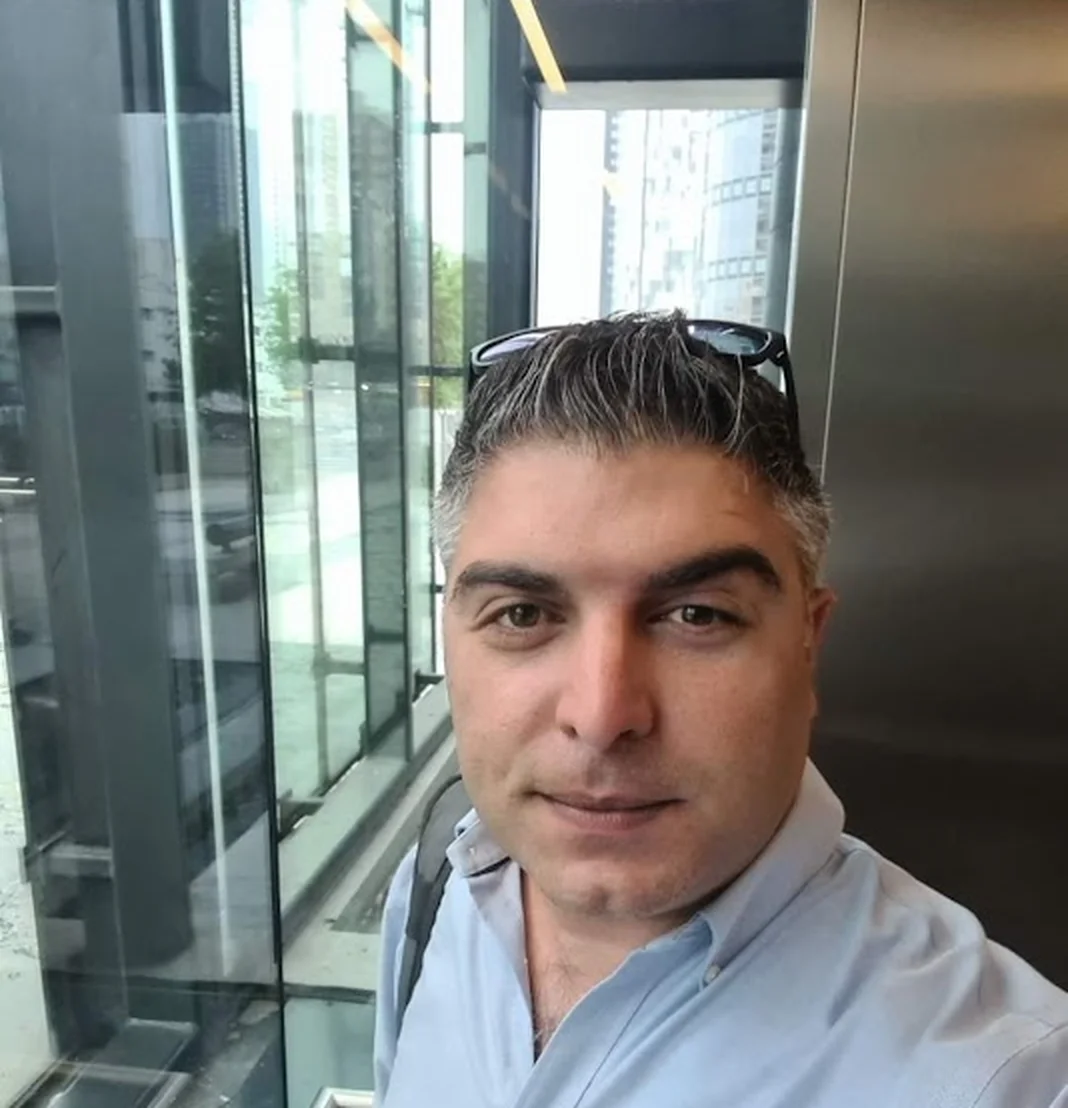
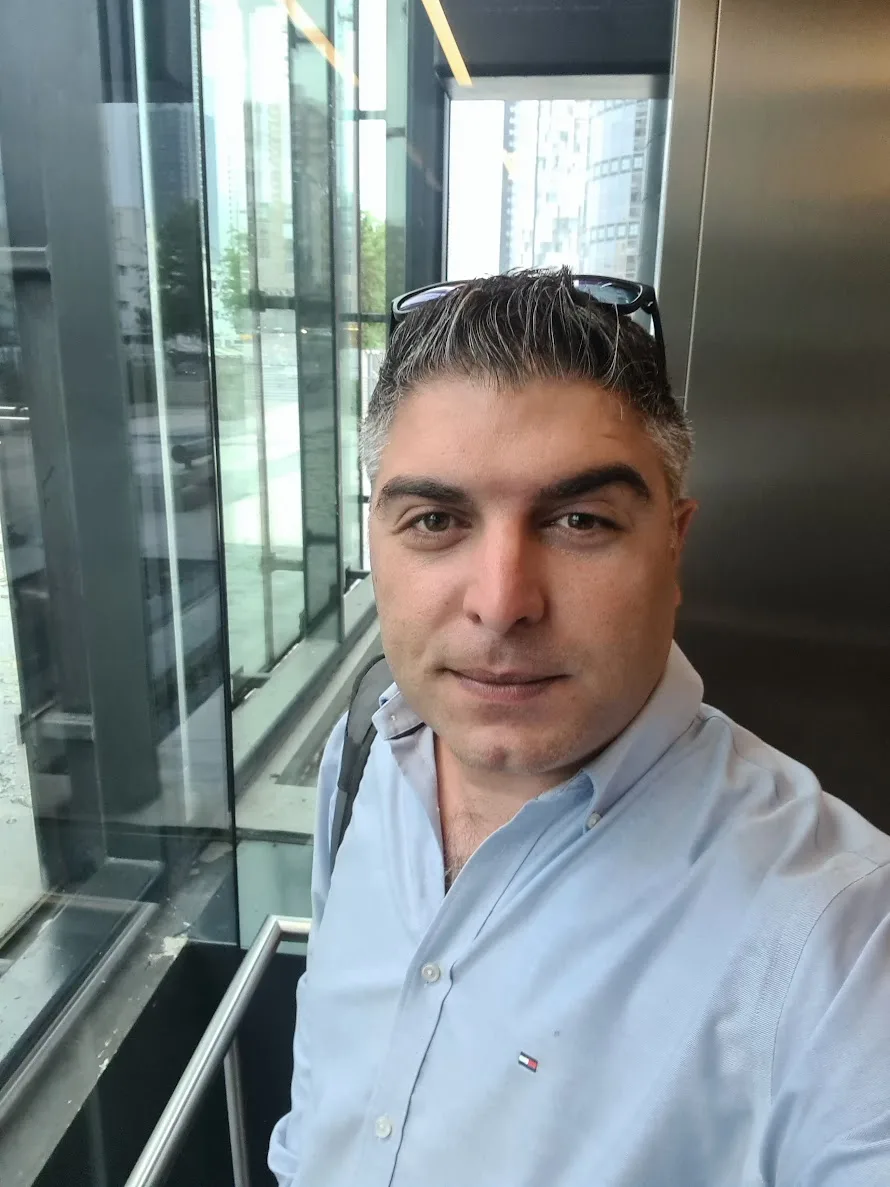
סדנאות: תמונות מקור ממנורה מבטחים + תמונת הכניסה
Claude-Session: https://claude.ai/code/session_01BdYVH8CyV9UPJGWQxjh4Eb

diff --git a/hartzaot-vesadnaot.html b/hartzaot-vesadnaot.html
@@ -586,9 +586,9 @@
   .ws-photo figcaption{font-family:var(--f-display);font-weight:700;font-size:12px;color:#555;padding:6px 4px 2px;}
   .ws-stage .ws-s1{top:auto;bottom:40px;inset-inline-end:auto;inset-inline-start:0;width:min(290px,72%);transform:rotate(-3deg);}
   .ws-stage .ws-s3{bottom:-10px;inset-inline-end:0;width:min(290px,72%);transform:rotate(3deg);}
-  .ws-pics{display:grid;grid-template-columns:1.4fr 1fr;gap:12px;margin-top:18px;}
-  .ws-pics img{width:100%;height:220px;object-fit:cover;border-radius:12px;display:block;}
-  @media (max-width:560px){.ws-stage{height:540px;}.ws-stage .ws-s1{bottom:120px;width:78%;}.ws-stage .ws-s3{bottom:0;width:78%;}.ws-pics img{height:150px;}}
+  .ws-pics{display:grid;grid-template-columns:1.6fr 1fr 1fr;gap:12px;margin-top:18px;}
+  .ws-pics img{width:100%;height:240px;object-fit:cover;object-position:center 30%;border-radius:12px;display:block;}
+  @media (max-width:560px){.ws-pics{grid-template-columns:1fr 1fr;}.ws-pics img:first-child{grid-column:1/-1;}.ws-stage{height:540px;}.ws-stage .ws-s1{bottom:120px;width:78%;}.ws-stage .ws-s3{bottom:0;width:78%;}.ws-pics img{height:150px;}}
   @media (max-width:760px){.ws-item{grid-template-columns:1fr;gap:16px;padding:22px;}.ws-item aside{border:0;padding:0;border-bottom:1px solid var(--line);padding-bottom:16px;}}
   @media (max-width:960px){.ws-stage{height:480px;max-width:520px;margin-inline:auto;}}
   @media (max-width:560px){.ws-stage{height:520px;}.ws-s2{top:170px;}}
@@ -742,7 +742,7 @@
           </div>
         </div>
         <div class="cs-mockup ws-stage">
-          <figure class="ws-photo"><img src="assets/workshops/menora-class.webp" alt="משה מולה בסדנה לסוכני ביטוח חדשים במנורה מבטחים" width="1068" height="792" /><figcaption>מנורה מבטחים · רגע לפני שכולם נכנסים</figcaption></figure>
+          <figure class="ws-photo"><img src="assets/workshops/menora-class.webp" alt="משה מולה בסדנה לסוכני ביטוח חדשים במנורה מבטחים" width="1400" height="1050" /><figcaption>מנורה מבטחים · רגע לפני שכולם נכנסים</figcaption></figure>
           <div class="ws-slide ws-s1"><div class="lg"><img src="assets/logos/harel.png" alt="הראל ביטוח" /><div><b>הראל ביטוח</b><span>12 מפקחים · מחוז דן</span></div></div><h4>שיווק דיגיטלי מקומי, ואיך לעזור לסוכנים לעשות את זה לבד</h4><div class="chips"><i>Google Business</i><i>איזי</i><i>רשתות</i></div></div>
           <div class="ws-slide ws-s3"><div class="lg"><img src="assets/logos/mizug.png" alt="רשת בית המיזוג" /><div><b>רשת בית המיזוג</b><span>מתקינים וטכנאים · זום</span></div></div><h4>קידום עצמי ושיווק דיגיטלי לבעל מקצוע</h4><div class="chips"><i>גוגל</i><i>רשתות</i><i>מיתוג אישי</i></div></div>
         </div>
@@ -760,7 +760,7 @@
         <article class="ws-item reveal"><aside><img src="assets/logos/harel.png" alt="הראל ביטוח" /><b>הראל ביטוח</b><span>12 מפקחים · סיום קורס המפקחים, מחוז דן</span><span class="fmt">סדנה</span></aside>
           <div><h3>לתת למפקחים כלים לעזור לסוכנים לשווק את עצמם</h3><p>המפקחים הם אלה שמלווים את הסוכנים ביום-יום. הסדנה נבנתה לסיום קורס המפקחים של מחוז דן, והתמקדה בשיווק דיגיטלי מקומי: Google Business, איזי ותשתיות דיגיטליות נוספות, וכמובן רשתות חברתיות. המטרה: שכל מפקח ידע להנחות את הסוכנים שלו לעשות את זה בעצמם.</p><ul><li>שיווק מקומי</li><li>Google Business</li><li>איזי</li><li>תשתיות דיגיטל</li><li>רשתות חברתיות</li></ul></div></article>
         <article class="ws-item reveal"><aside><img src="assets/logos/menora.png" alt="מנורה מבטחים" /><b>מנורה מבטחים</b><span>כיתה של 20 סוכנים חדשים</span><span class="fmt">סדנה</span></aside>
-          <div><h3>שיווק דיגיטלי מקומי: הבסיס שכל סוכן חדש צריך</h3><p>סדנה לכיתה של 20 סוכנים חדשים על החשיבות של נוכחות דיגיטלית מקומית: איך להופיע בגוגל ובמפות, איך להשתמש ב-Google Business ובאיזי, אילו תשתיות דיגיטליות כדאי להקים מהיום הראשון, ואיך להפעיל את הרשתות החברתיות נכון.</p><ul><li>שיווק מקומי</li><li>Google Business</li><li>איזי</li><li>תשתיות דיגיטל</li><li>רשתות חברתיות</li></ul><div class="ws-pics"><img src="assets/workshops/menora-class.webp" alt="הכיתה במנורה מבטחים: סוכני ביטוח חדשים לפני תחילת הסדנה" loading="lazy" width="1068" height="792" /><img src="assets/workshops/menora-arrival.webp" alt="משה מולה בדרך לסדנה במגדל משה אביב, מנורה מבטחים" loading="lazy" width="1068" height="1108" /></div></div></article>
+          <div><h3>שיווק דיגיטלי מקומי: הבסיס שכל סוכן חדש צריך</h3><p>סדנה לכיתה של 20 סוכנים חדשים על החשיבות של נוכחות דיגיטלית מקומית: איך להופיע בגוגל ובמפות, איך להשתמש ב-Google Business ובאיזי, אילו תשתיות דיגיטליות כדאי להקים מהיום הראשון, ואיך להפעיל את הרשתות החברתיות נכון.</p><ul><li>שיווק מקומי</li><li>Google Business</li><li>איזי</li><li>תשתיות דיגיטל</li><li>רשתות חברתיות</li></ul><div class="ws-pics"><img src="assets/workshops/menora-class.webp" alt="הכיתה במנורה מבטחים: סוכני ביטוח חדשים לפני תחילת הסדנה" loading="lazy" width="1400" height="1050" /><img src="assets/workshops/menora-building.webp" alt="משה מולה בכניסה למשרדי מנורה מבטחים" loading="lazy" width="900" height="1200" /><img src="assets/workshops/menora-arrival.webp" alt="משה מולה בדרך לסדנה, מגדל משה אביב" loading="lazy" width="900" height="1200" /></div></div></article>
         <article class="ws-item reveal"><aside><img src="assets/logos/mizug.png" alt="רשת בית המיזוג" /><b>רשת בית המיזוג</b><span>מתקינים וטכנאי מזגנים</span><span class="fmt">הרצאה בזום</span></aside>
           <div><h3>שיווק דיגיטלי וקידום עצמי לבעל מקצוע בשטח</h3><p>הרצאה למתקינים ולטכנאים של הרשת: איך בעל מקצוע שעובד בשטח בונה לעצמו שם בדיגיטל, מופיע כשמחפשים אותו, והופך עבודה טובה ללקוחות חדשים.</p><ul><li>קידום עצמי</li><li>גוגל</li><li>רשתות חברתיות</li><li>מיתוג אישי</li></ul></div></article>
       </div>
